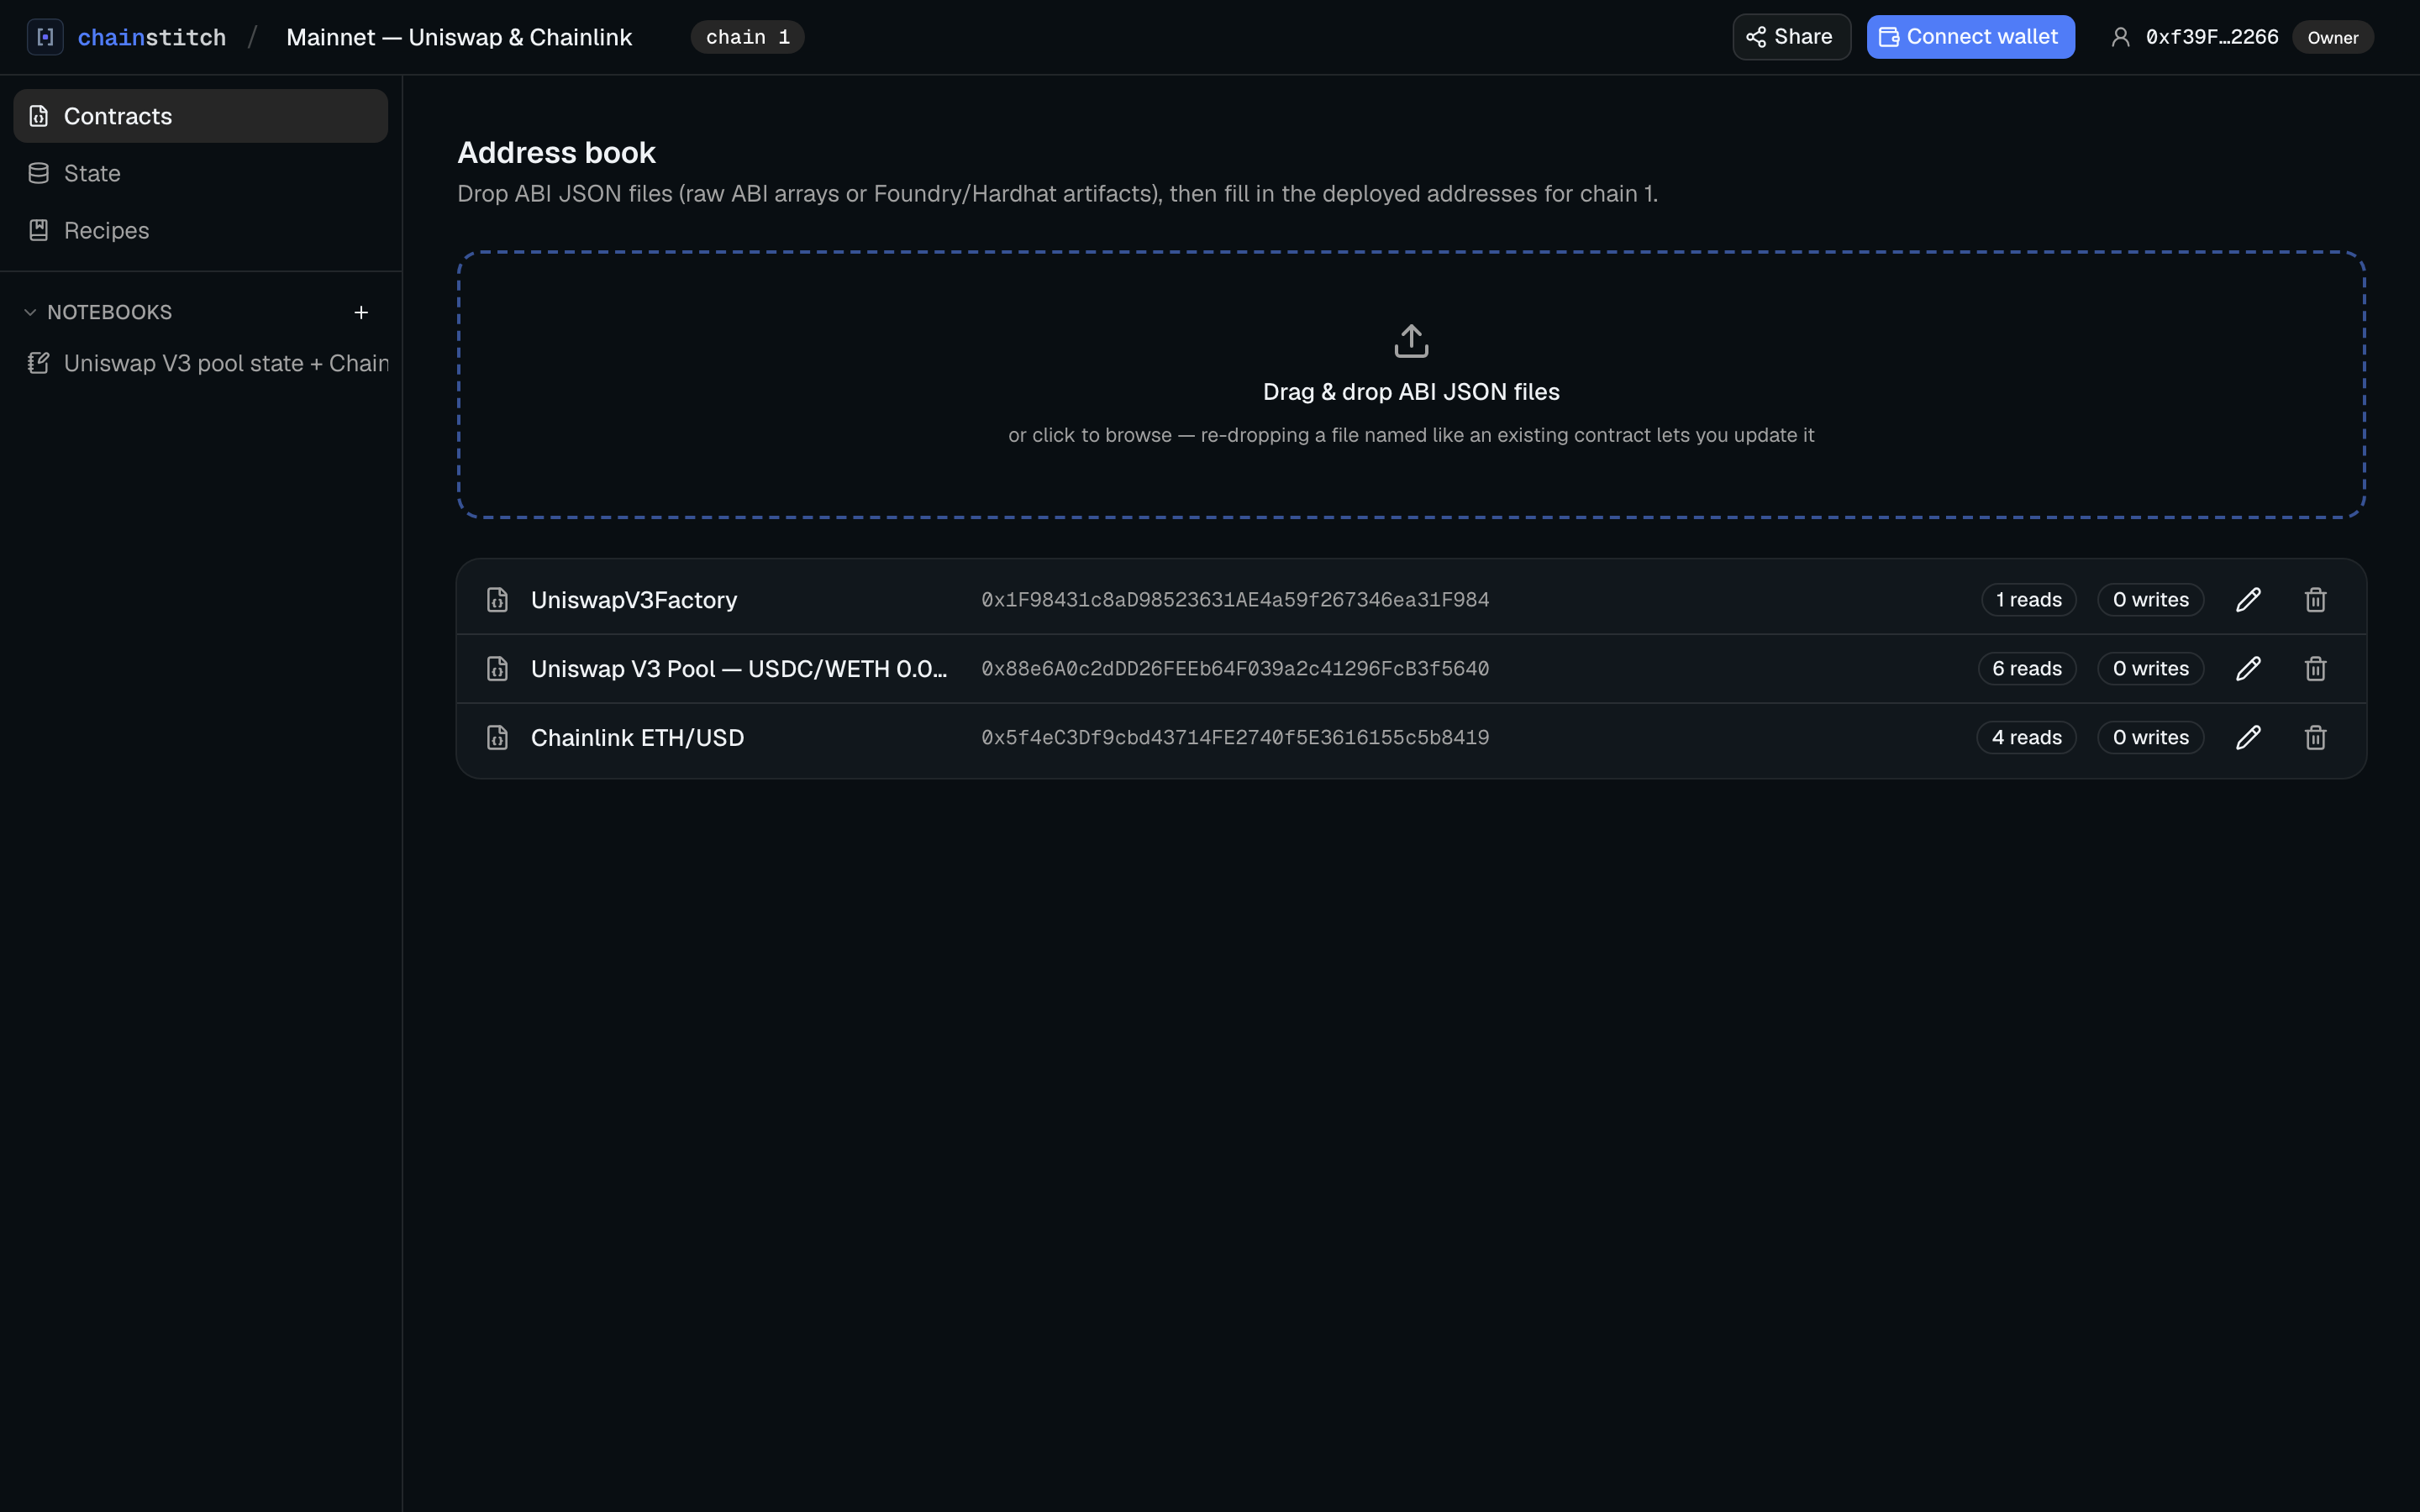
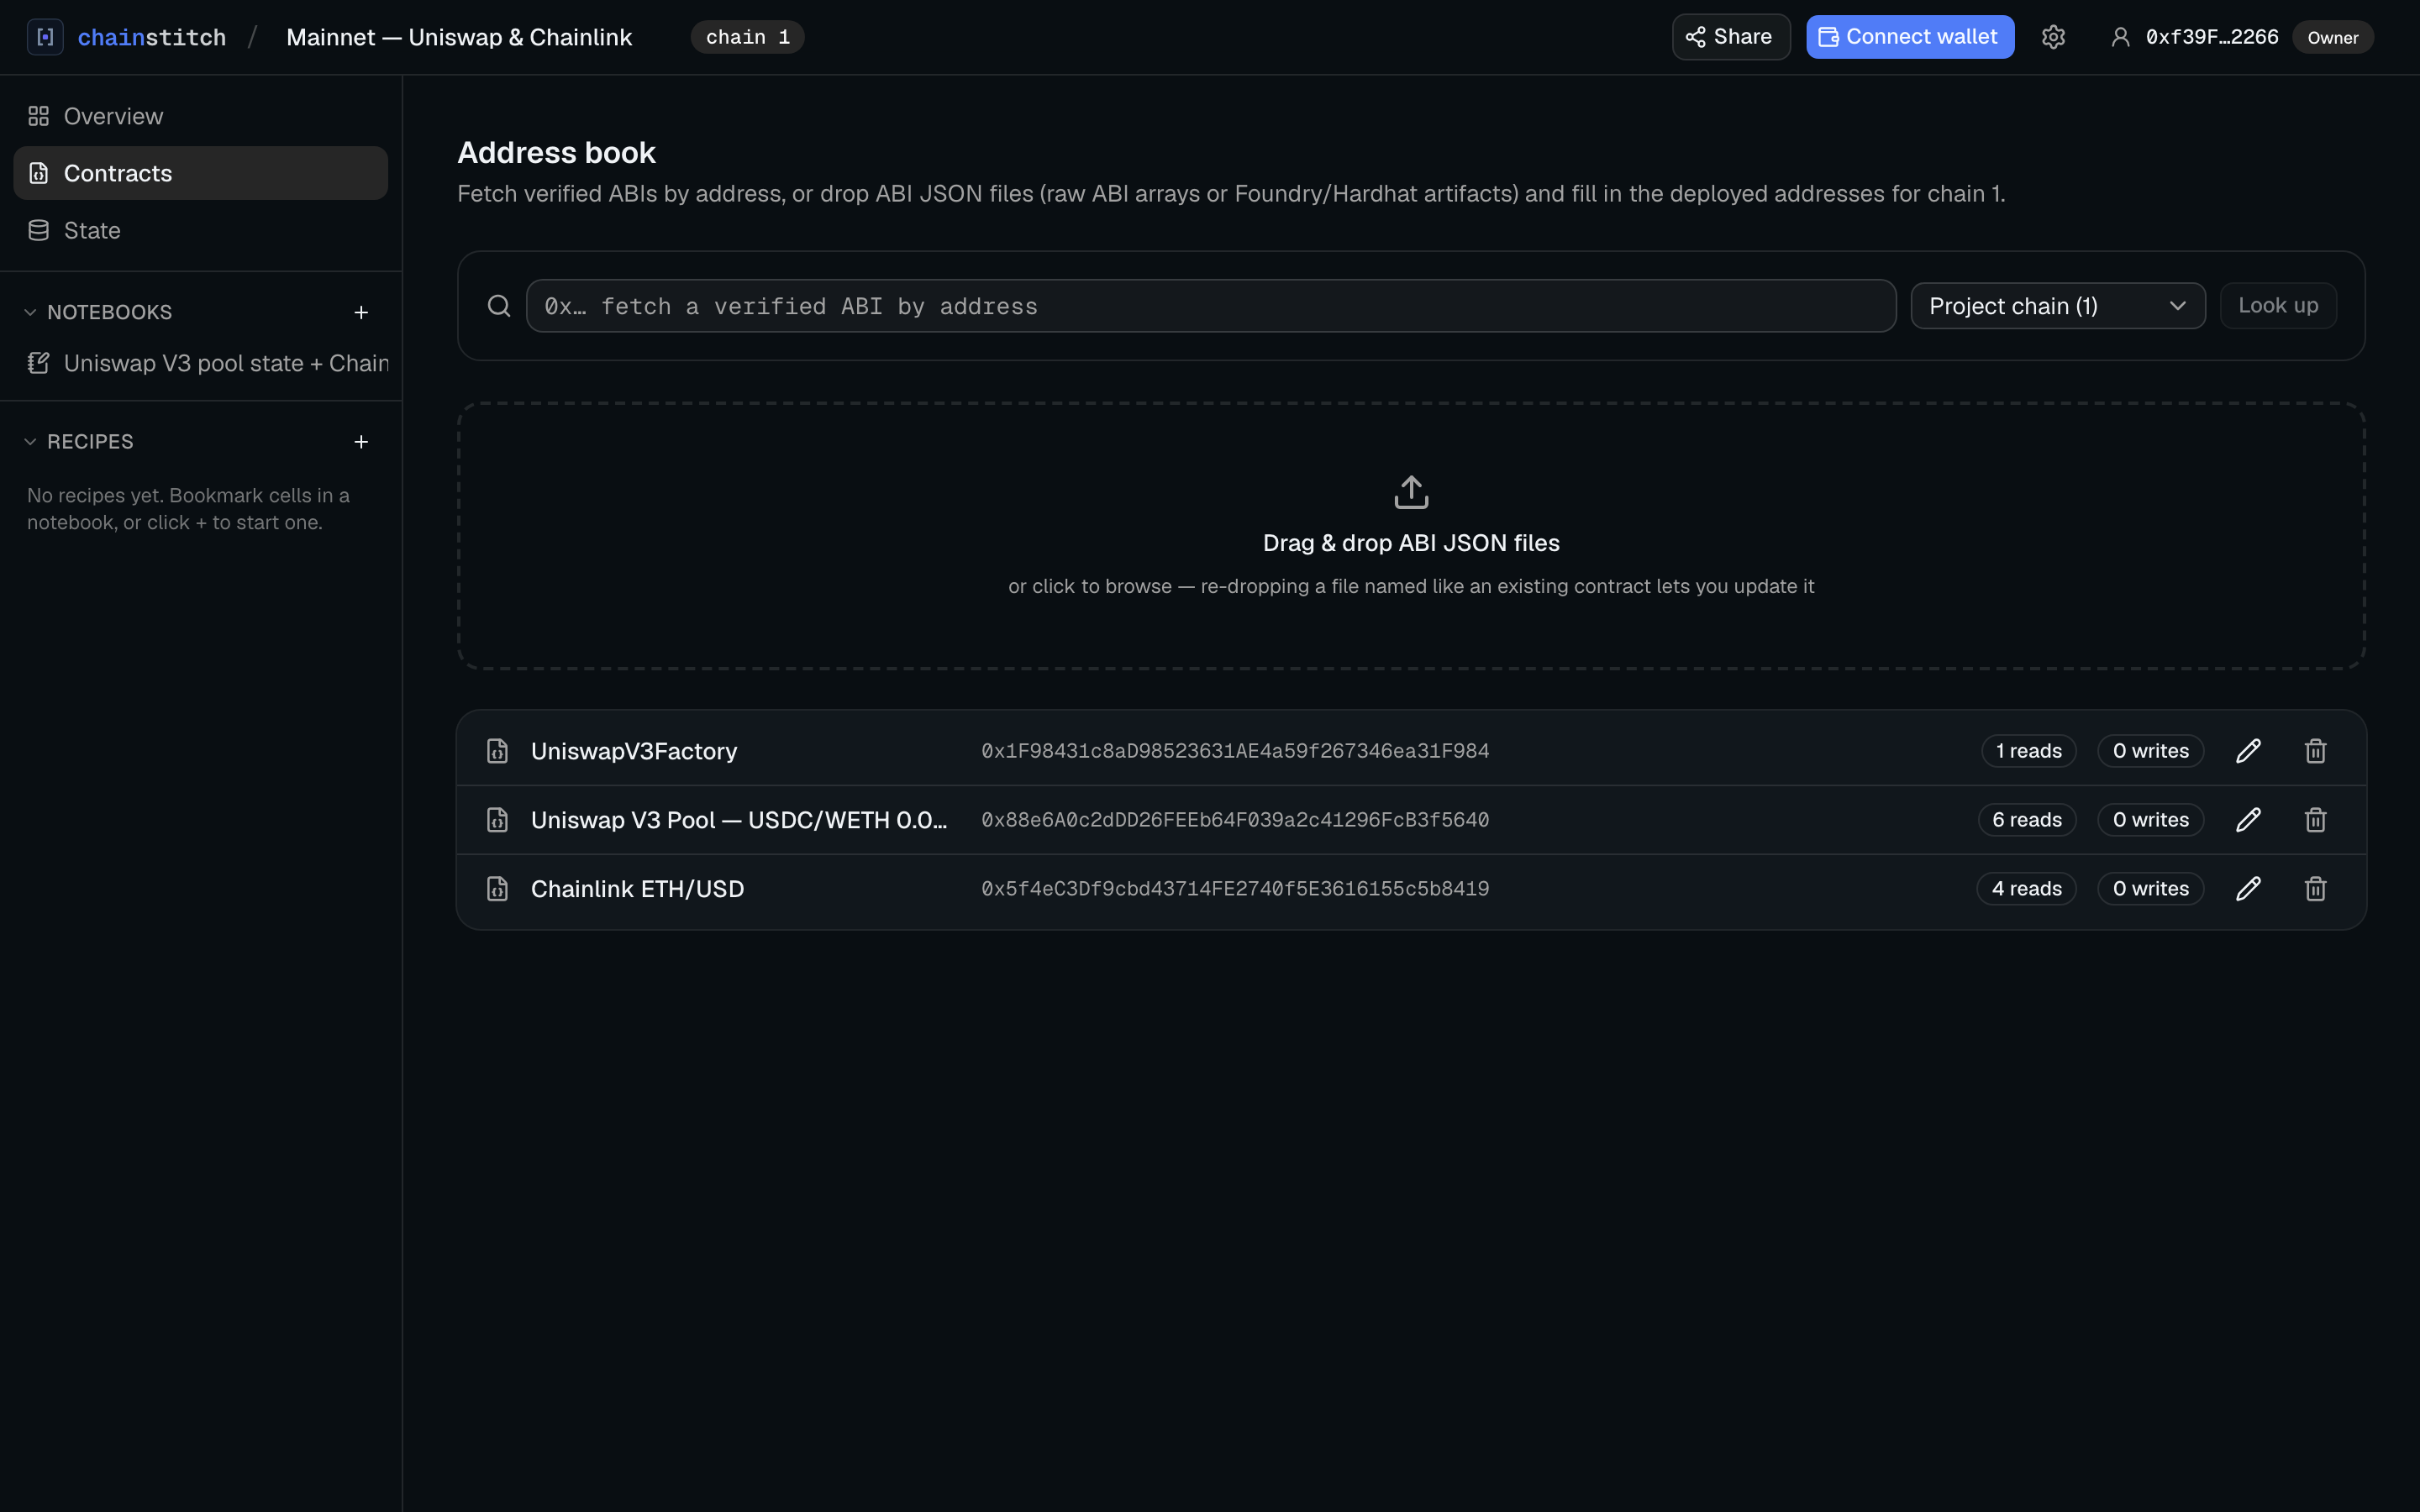
chore: README — ABI lookup, settings button wording, refreshed screenshots

diff --git a/README.md b/README.md
@@ -82,10 +82,14 @@ just ran.
 
 ### Address book
 
-Drag &amp; drop ABI JSON (raw arrays or Foundry/Hardhat artifacts) and fill in
-deployed addresses. Proxies: pair the proxy address with the implementation
-ABI. The same address book feeds every notebook, the codegen, and the State
-tab — one source of truth per project.
+Fetch a verified ABI by pasting an address — Sourcify and Blockscout out of
+the box, Etherscan too with a free `ETHERSCAN_API_KEY` — or drag &amp; drop
+ABI JSON (raw arrays or Foundry/Hardhat artifacts) and fill in deployed
+addresses. Proxies resolve automatically: explorer proxy hints plus an
+EIP-1967 slot read pair the proxy address with the implementation ABI (works
+on anvil forks — pick the fork's source chain in the lookup). The same
+address book feeds every notebook, the codegen, and the State tab — one
+source of truth per project.
 
 <p align="center">
   <img src="screenshots/address-book.png" alt="The address book with Uniswap V3 Factory, the USDC/WETH pool, and a Chainlink feed">
@@ -234,7 +238,7 @@ APP_URL=https://notebook.example.com           # exact URL users visit
 ```
 
 Start the app, sign in with an owner wallet, then invite teammates from
-**Settings** (account menu → Workspace settings) — an invite is just a wallet
+**Settings** (the gear button in the header) — an invite is just a wallet
 address and a role, claimed automatically the first time that wallet signs
 in. The sign-in signature is domain-bound to `APP_URL`, costs nothing, and
 never touches a chain — it's identity only. Roles: